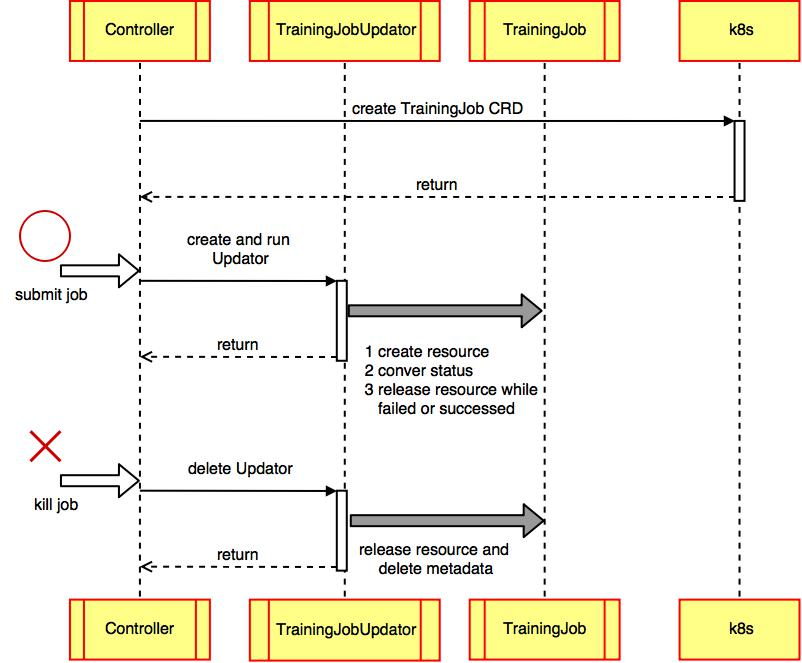
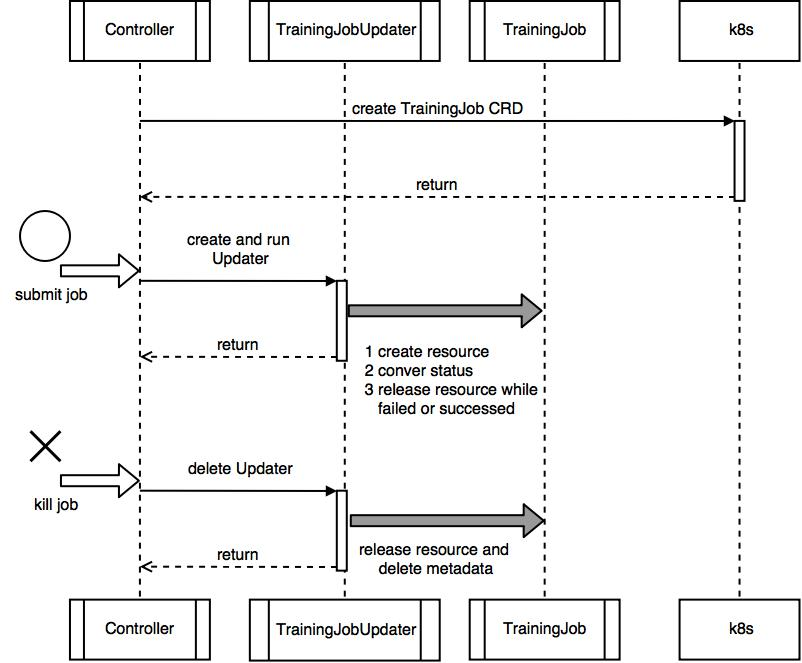
fix typo and change colors of pictures

diff --git a/doc/edl/README.md b/doc/edl/README.md
@@ -29,7 +29,7 @@ for the training job autoscaling for the following reasons:
 We need to develop our own solution for autoscaling.
 
 Kubrenetes provide [CustomResourceDefinition (CRD)](https://kubernetes.io/docs/concepts/api-extension/custom-resources/#custom-resources)and [custom controller](https://kubernetes.io/docs/concepts/api-extension/custom-resources/#custom-controllers)
-we can use these feature to develop EDL controller, so it can flexibly running in our
+we can use these feature to develop EDL controller, so it can flexibly run in our
 cluster and does not require modifying the Kubernetes source code.
 
 ## Solution
